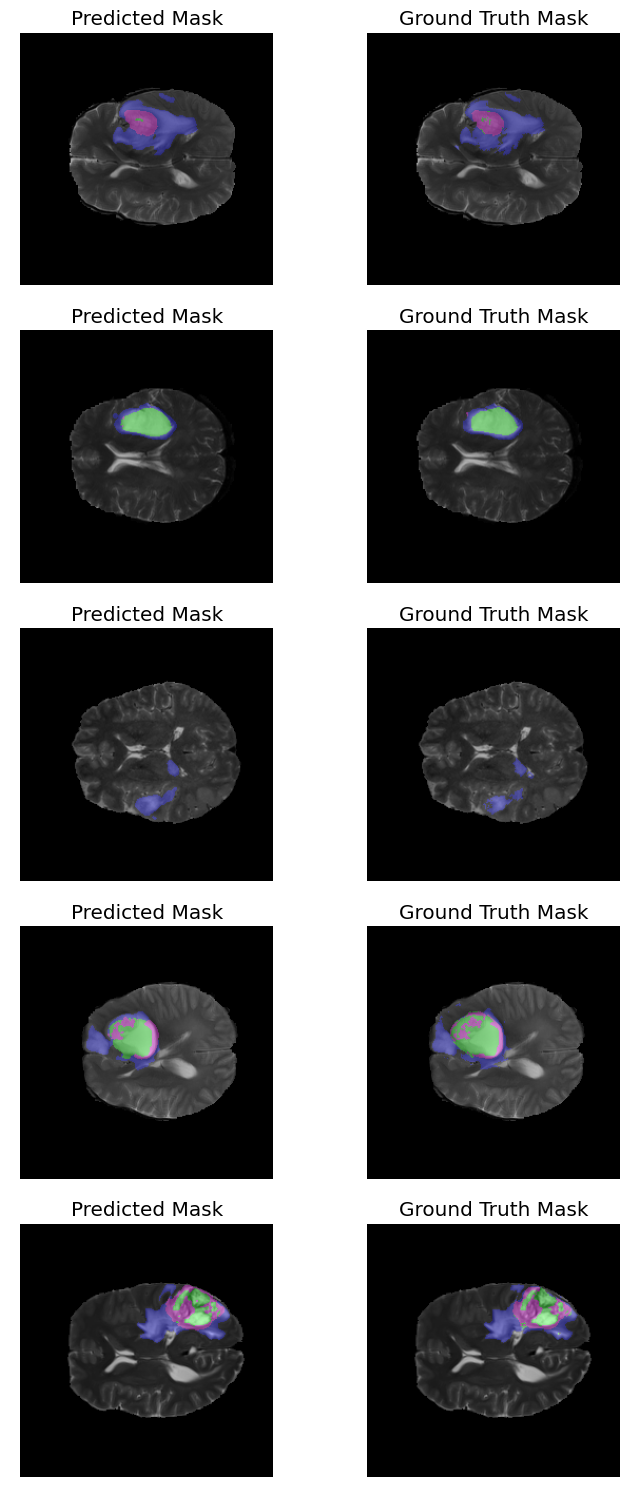
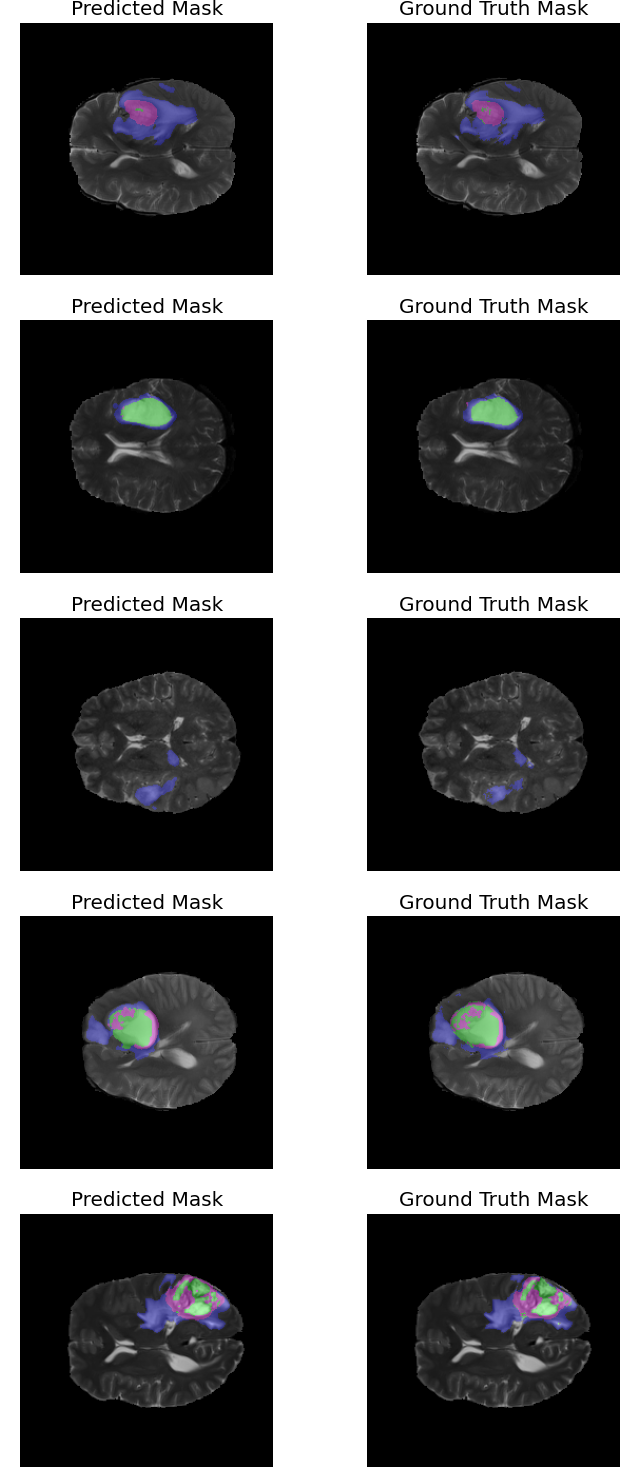
Modificato capitolo 5
- allineate immagini prediction finali
- aggiunto Loss, Dice e Hausdorff95 per ogni classe
- rivista impaginazione per evitare spazi tra frasi

diff --git a/egpaper_final.tex b/egpaper_final.tex
@@ -173,12 +173,9 @@ The training process was designed to ensure stability, performance, and efficien
 After every forward pass, predictions is extracted from the model outputs and compared with the ground truth segmentation, computing loss and Dice Score to evaluate segmentation performance for each batch. The average Dice Score and training loss is computed over the entire epoch to monitor learning progress.
 
 The validation phase follows the same structure, evaluating the model on a separate validation set using the same loss function and Dice metric.
-
 To prevent overfitting, early stopping is implemented. The validation loss is monitored across epochs, and training is terminated early if the loss did not improve beyond a minimum threshold for a predefined number of consecutive epochs.
 
 Specifically, we decided to use GradScaler from PyTorch to automatically scale the gradients during backpropagation, which helps prevent numerical instability and allows for larger learning rates. The model was trained using the AdamW optimizer with a starting learning rate of $5e-4$ and a weight decay of $5e-4$. The learning rate was adjusted step-by-step using a ReduceLROnPlateau scheduler, which reduces the learning rate by a factor of 0.5 if the validation loss does not improve for 2 consecutive epochs and fixing a lower bound of $1e-6$. This adaptive learning rate strategy helps the model converge more effectively by allowing it to take larger steps initially and then fine-tune as it approaches a minimum.
-
-During training, model checkpoints are periodically saved every 5 epochs to allow for recovery and future analysis. In addition, a separate checkpoint is saved whenever the model achieved a new highest Dice Score on the validation set. This best-performing model, based on validation performance, is retained and ultimately selected for evaluation on the test set, ensuring that only the most effective model in terms of segmentation quality is actually used for the final inference.
 
 \begin{figure}[H]
     \centering
@@ -186,13 +183,20 @@ During training, model checkpoints are periodically saved every 5 epochs to allo
     \caption{Progression of Loss, Dice Score and learning rate over training epochs.}
 \end{figure}
 
+During training, model checkpoints are periodically saved every 5 epochs to allow for recovery and future analysis. In addition, a separate checkpoint is saved whenever the model achieved a new highest Dice Score on the validation set. This best-performing model, based on validation performance, is retained and ultimately selected for evaluation on the test set, ensuring that only the most effective model in terms of segmentation quality is actually used for the final inference.
+
+
 \subsection{Results}
 The proposed encoder-decoder architecture demonstrated substantial effeciveness in automated brain tumor segmentation using 3D MRI imaging data. The model achieved a Dice Score of 0.79 on the validation set, indicating strong overlap between predicted segmentation mask and ground truth annotations. This performance level represent a clinically relevant accuracy threshold in support of human radiologists in identifying and delineating tumor regions.
 The three-class segmentation task presented significant challenges due to the distinct imaging characteristics and spatial relationships between the three tumor subregions.
 The achieved Dice Score places the model within the competitive range of the modern state-of.the-art methods for brain tumor segmentation, that typically reports a score between 0.75 and 0.85.
 
 The results of the presented model were evaluated epoch by epoch on the validation set (also because the test set was not available on Kaggle at the time of writing this paper) and compared with the results of the other two architectures presented in section \ref{architectural_choices}.
-As previously mentioned, the final model had a Dice Score of 79\% and some examples are shown in Figure \ref{fig:row-1-column-1} and \ref{fig:row-2-column-1}.
+As previously mentioned, the final model had a Dice Score of 0.79 and some examples are shown in Figure \ref{fig:row-1-column-1} and \ref{fig:row-2-column-1}.
+
+In particular: the Peritumoral Edema class achieved a combined loss of 0.7323 and a Dice Score of 0.7727; the Enhancing Tumor class achieved a loss of 0.7239 and a Dice Score of 0.8026; the Necrotic and Non-Enhancing Tumor Core class had the highest loss (1.8782) and a Dice Score of 0.6448; finally, the Background class reached a Dice Score of 0.9989 with a combined loss of 0.0031.
+
+In addition to these metrics, we also calculated the Hausdorff95 distance, a boundary-based evaluation metric that measures the 95th percentile of the maximum distance between the predicted segmentation and the ground truth, thus quantifying how closely the predicted borders align with the reference labels. Lower values indicate better boundary agreement and higher segmentation precision. The results showed that the Background class achieved an excellent Hausdorff95 distance of 0.2464 mm, indicating near-perfect border overlap. The Enhancing Tumor, Peritumoral Edema, and Necrotic and Non-Enhancing Tumor Core classes exhibited higher Hausdorff95 distances of 5.0973 mm, 8.4238 mm, and 7.6740 mm respectively, reflecting the greater complexity and variability in accurately delineating tumor boundaries, still demonstrating acceptable performance.
 
 Comparing our model directly with other two present in the literature, our performance aligns also with state-of-the-art lightweight methods like those reviewed pattern in \cite{An2024DWKD} and in \cite{Gutierrez2024Brain}, which also achieve competitive results with significantly fewer parameters reporting a Dice Score between 0.75 and 0.82.
 
@@ -201,7 +205,7 @@ In the notebook is also provided the possibility to evaluate separately every si
 \begin{figure}
 \centering
 \includegraphics[width=\linewidth]{img/SeparatedColor.png}
-\caption{The segmentation results of the model on the validation set, separated by class.}
+\caption{The segmentation results of the model on the validation set, separated by class: in green the N.N.E. Core, in blue the Peritumoral Edema, in magenta the Enhancing Tumor.}
 \label{tab:results}
 \end{figure}
 
